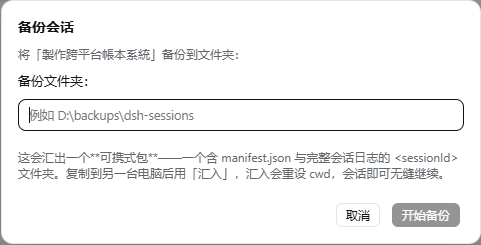
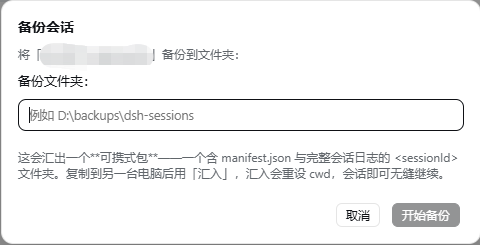
docs(screenshots): refresh images and add English-specific screenshots for the EN README

diff --git a/README.md b/README.md
@@ -52,13 +52,13 @@ A session belongs to a workspace through its header `cwd` — an absolute path t
 
 **Session Manager page**
 
-![Session Manager](docs/screenshots/session-manager.png)
+![Session Manager](docs/screenshots/session-manager_EN.png)
 
 **Dialogs**
 
 | Move to Workspace | Backup / Export | Import | Delete (double-confirm) |
 |---|---|---|---|
-| ![Move](docs/screenshots/move-dialog.png) | ![Backup](docs/screenshots/backup.png) | ![Import](docs/screenshots/import.png) | ![Delete](docs/screenshots/delete-confirm.png) |
+| ![Move](docs/screenshots/move-dialog_EN.png) | ![Backup](docs/screenshots/backup_EN.png) | ![Import](docs/screenshots/import_EN.png) | ![Delete](docs/screenshots/delete-confirm_EN.png) |
 
 ## Requirements
 
